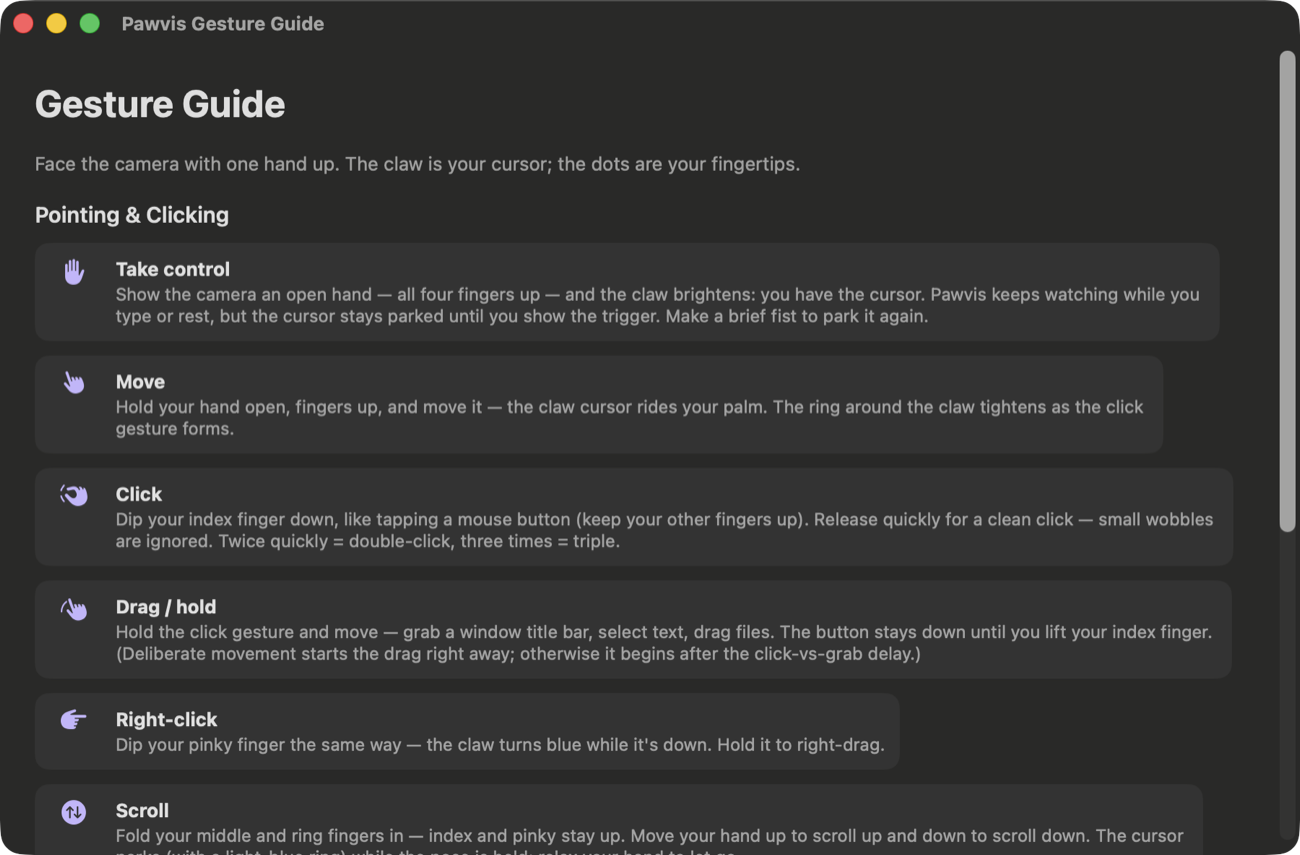
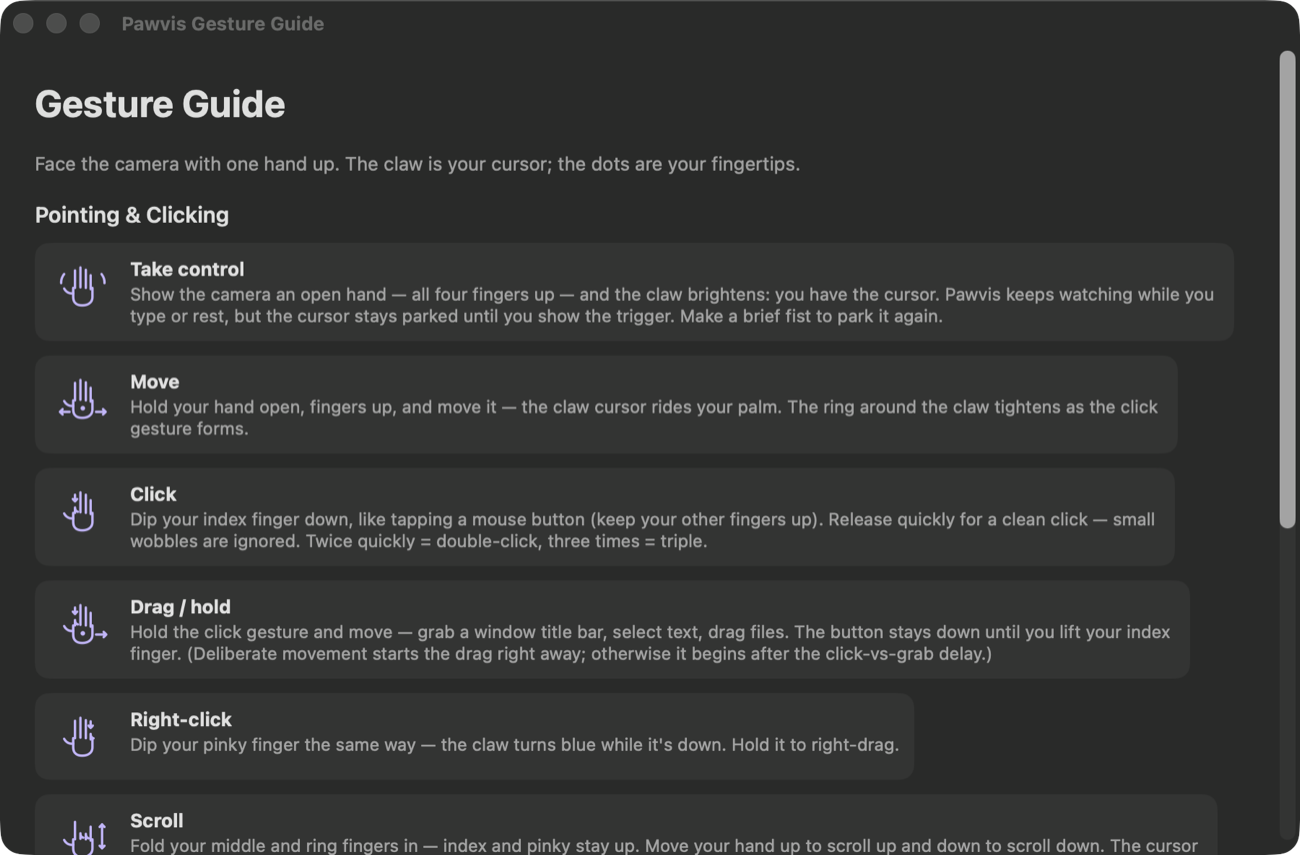
site: reshoot the guide screenshot against the posed-hand glyphs
#29 redrew the Gesture Guide's art, so the capture on the splash page
was a build old — it still showed the SF Symbols that taught the wrong
gestures (a pointing finger for Move, a pinch for Click).

Recaptured from a fresh build at this merge, same window and same 1300px
width, so the markup is unchanged apart from the alt text and caption,
which now say what the picture is: the pose you actually make.

The menu bar panel and Settings -> Gestures captures are untouched. #29's
only change to either was swapping a window-id string literal for a
constant in MenuContentView, which renders identically.

The gestures cards needed nothing here: #29 already moved seven of the
eight to the shared assets/gestures/*.svg poses. The eighth, "Reach
adapts to distance", keeps its framing-bracket glyph — it describes the
tracking area sizing itself, not a pose, and there is no hand to draw
for it. It is the same 48px, stroke-2, purple-and-blue glyph language as
the generated set, so the row still reads as one family.

diff --git a/docs/index.html b/docs/index.html
@@ -195,8 +195,8 @@
 
     <div class="shots" data-reveal>
       <figure class="shot">
-        <img src="assets/app-gesture-guide.png" alt="The Pawvis Gesture Guide window, listing Take control, Move, Click, Drag / hold, Right-click and Scroll, each with a short description." width="1300" height="855" loading="lazy">
-        <figcaption>The Gesture Guide ships in the app: every move, in its own words.</figcaption>
+        <img src="assets/app-gesture-guide.png" alt="The Pawvis Gesture Guide window, listing Take control, Move, Click, Drag / hold, Right-click and Scroll, each illustrated with a drawing of the hand pose it takes." width="1300" height="855" loading="lazy">
+        <figcaption>The Gesture Guide ships in the app: every move, drawn as the pose you actually make.</figcaption>
       </figure>
       <figure class="shot shot-tall">
         <img src="assets/app-settings-gestures.png" alt="The Pawvis Settings window on the Gestures tab, showing sensitivity and click-vs-grab sliders and toggles for right-click, scroll and the claw cursor." width="835" height="900" loading="lazy">
